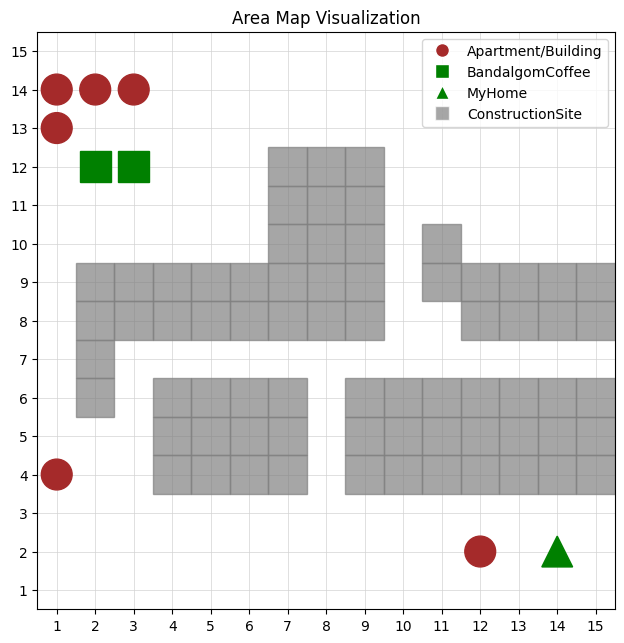
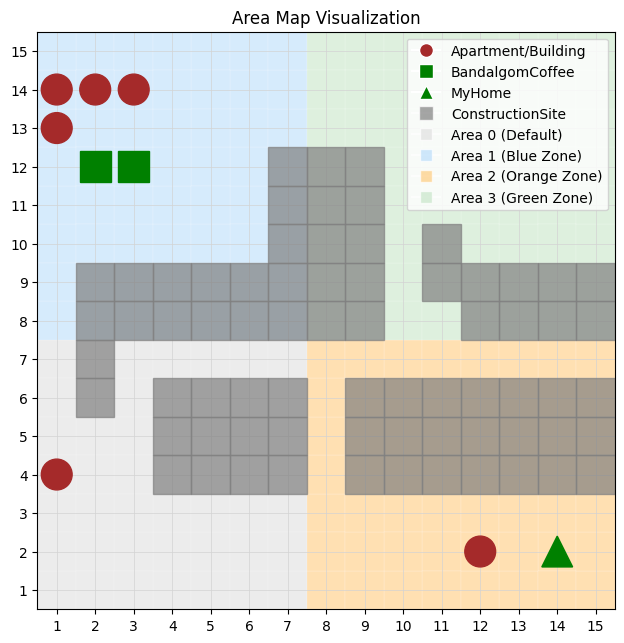
미세 조정

diff --git a/map_visualization.py b/map_visualization.py
@@ -3,7 +3,7 @@ from matplotlib.lines import Line2D
 import os
 import pandas as pd
 
-def draw_map(merged_df, path_to_draw=None, output_filename='map.png'):
+def draw_map(merged_df, path_to_draw=None, output_filename='map.png', show_areas=True):
     """
     데이터프레임과 선택적 경로를 기반으로 지도를 시각화하고 저장합니다.
 
@@ -11,6 +11,7 @@ def draw_map(merged_df, path_to_draw=None, output_filename='map.png'):
         merged_df (pd.DataFrame): 구조물 정보가 포함된 데이터프레임.
         path_to_draw (list, optional): 지도에 그릴 경로 좌표 리스트. Defaults to None.
         output_filename (str, optional): 저장할 이미지 파일 이름. Defaults to 'map.png'.
+        show_areas (bool, optional): 구역 정보를 배경으로 표시할지 여부. Defaults to True.
     """
     x_max = merged_df['x'].max()
     y_max = merged_df['y'].max()
@@ -24,6 +25,28 @@ def draw_map(merged_df, path_to_draw=None, output_filename='map.png'):
     ax.set_ylim(0.5, y_max + 0.5)
     ax.set_aspect('equal')
     ax.set_title('Area Map Visualization')
+
+    # Area 구역을 배경으로 표시
+    if show_areas and 'area' in merged_df.columns:
+        area_colors = {
+            0: '#e0e0e0',  # 진한 회색 (기본 구역)
+            1: '#bbdefb',  # 진한 파랑 (구역 1)
+            2: '#ffcc80',  # 진한 주황 (구역 2)
+            3: '#c8e6c9'   # 진한 초록 (구역 3)
+        }
+        
+        # Area별로 그룹화하여 효율적으로 처리
+        for area_id, area_color in area_colors.items():
+            area_data = merged_df[merged_df['area'] == area_id]
+            for _, row in area_data.iterrows():
+                ax.add_patch(plt.Rectangle(
+                    (row['x'] - 0.5, row['y'] - 0.5), 1, 1, 
+                    facecolor=area_color, 
+                    alpha=0.6, 
+                    zorder=1,
+                    edgecolor='white',
+                    linewidth=0.2
+                ))
 
     for _, row in merged_df.iterrows():
         name = row['struct_name']
@@ -51,6 +74,32 @@ def draw_map(merged_df, path_to_draw=None, output_filename='map.png'):
         Line2D([0], [0], marker='^', color='w', label='MyHome', markerfacecolor='green', markersize=10),
         Line2D([0], [0], marker='s', color='w', label='ConstructionSite', markerfacecolor='gray', markersize=10, alpha=0.7)
     ]
+    
+    # Area 범례 추가
+    if show_areas and 'area' in merged_df.columns:
+        area_labels = {
+            0: 'Area 0 (Default)',
+            1: 'Area 1 (Blue Zone)',
+            2: 'Area 2 (Orange Zone)', 
+            3: 'Area 3 (Green Zone)'
+        }
+        area_colors = {
+            0: '#e0e0e0',
+            1: '#bbdefb',
+            2: '#ffcc80',
+            3: '#c8e6c9'
+        }
+        
+        for area_id in sorted(merged_df['area'].unique()):
+            if pd.notna(area_id) and int(area_id) in area_labels:
+                area_int = int(area_id)
+                legend_elements.append(
+                    Line2D([0], [0], marker='s', color='w', 
+                          label=area_labels[area_int], 
+                          markerfacecolor=area_colors[area_int], 
+                          markersize=8, alpha=0.7)
+                )
+    
     if path_to_draw:
         legend_elements.append(Line2D([0], [0], color='red', lw=2, label='Shortest Path'))
     
@@ -65,3 +114,15 @@ def draw_map(merged_df, path_to_draw=None, output_filename='map.png'):
     plt.close()
     
     print(f"지도 이미지가 '{map_path}'에 저장되었습니다.")
+
+
+if __name__ == '__main__':
+    """
+    독립 실행 시 area 구역 정보가 포함된 기본 지도를 생성합니다.
+    """
+    try:
+        merged_df = pd.read_csv('output/area_merged.csv')
+        draw_map(merged_df, show_areas=True, output_filename='map.png')
+    except FileNotFoundError:
+        print("오류: 'output/area_merged.csv' 파일을 찾을 수 없습니다.")
+        print("1단계(caffee_map.py)를 먼저 실행하여 데이터를 생성해주세요.")

diff --git a/map_draw.py b/map_draw.py
@@ -1,18 +1,14 @@
+"""
+간단한 지도 시각화 스크립트
+직접 draw_map 함수를 호출하여 area 구역 정보가 포함된 지도를 생성합니다.
+"""
 import pandas as pd
 from map_visualization import draw_map
 
-def main():
-    """
-    메인 실행 함수: 데이터 로드 및 지도 시각화
-    """
+if __name__ == '__main__':
     try:
         merged_df = pd.read_csv('output/area_merged.csv')
+        draw_map(merged_df, show_areas=True, output_filename='map.png')
     except FileNotFoundError:
         print("오류: 'output/area_merged.csv' 파일을 찾을 수 없습니다.")
         print("1단계(caffee_map.py)를 먼저 실행하여 데이터를 생성해주세요.")
-        return
-
-    draw_map(merged_df, output_filename='map.png')
-
-if __name__ == '__main__':
-    main()

diff --git a/map_direct_save.py b/map_direct_save.py
@@ -60,6 +60,7 @@ def main():
     path_found = find_shortest_path(merged_df)
 
     if path_found:
+        # 경로 데이터를 CSV로 저장
         path_df = pd.DataFrame(path_found, columns=['x', 'y'])
         output_dir = 'output'
         if not os.path.exists(output_dir):
@@ -68,7 +69,8 @@ def main():
         path_df.to_csv(path_csv_path, index=False)
         print(f"최단 경로가 '{path_csv_path}'에 저장되었습니다.")
 
-        draw_map(merged_df, path_to_draw=path_found, output_filename='map_final.png')
+        # 경로가 포함된 지도 시각화 (area 구역 정보 포함)
+        draw_map(merged_df, path_to_draw=path_found, show_areas=True, output_filename='map_final.png')
     else:
         print("경로를 찾을 수 없습니다.")
 
